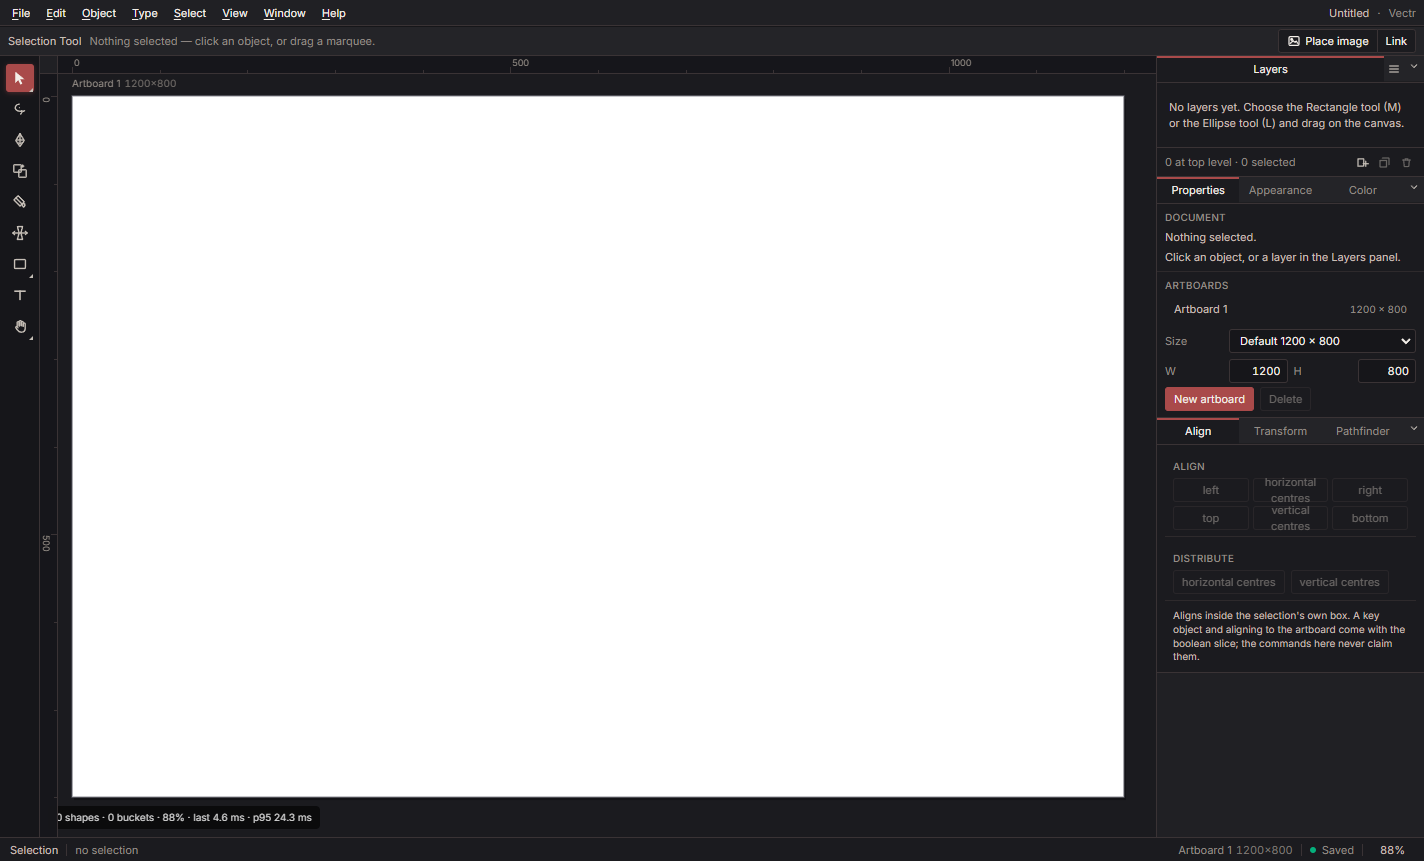
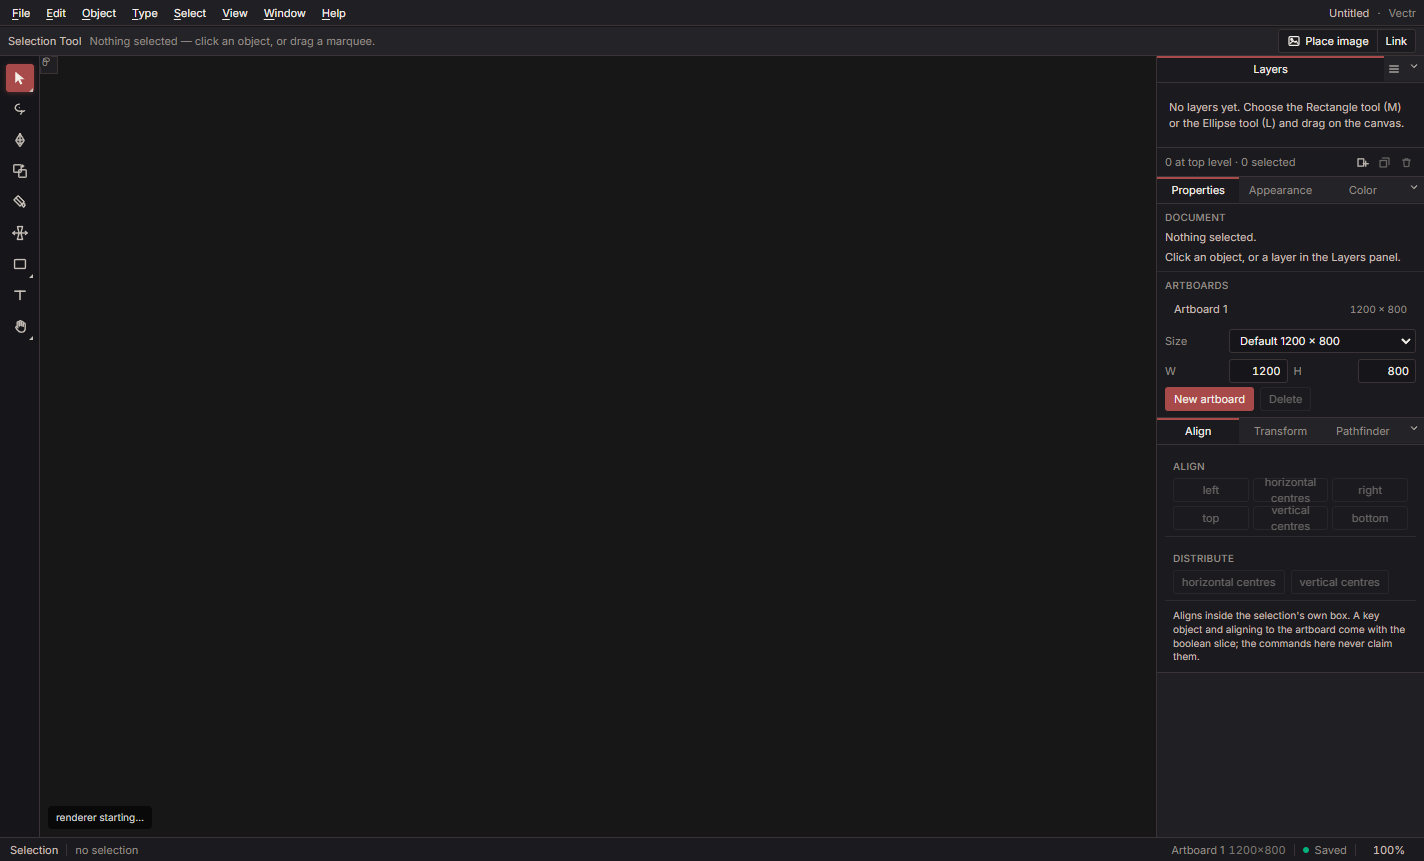
release: close Phase 6 (Type) with 0.6.0
Phase 6 ships point text, area text, text on a path, threaded text with live reflow, vertical type,
Create Outlines with our own TrueType reader, and missing-font resolution; the format moved from v7
to v12. Character/paragraph style presets are the stated exception: per-range styles need a rich-text
run model, and text styling stays per object.

392 tests and 170 packaged steps; verify:artifact now asserts the Phase 6 contract (53 checks) and
the receipt is committed. Release notes, site version, feature list, PLAN, catalog, PROGRESS, and the
screenshot are updated for the phase close.

diff --git a/site/index.html b/site/index.html
@@ -135,7 +135,7 @@
   <div class="wrap split">
     <div>
       <h2>Get started.</h2>
-      <p><strong>Windows:</strong> download <a href="https://github.com/lleoparden/vectr/releases">Vectr 0.5.8 Setup</a> - a per-user installer, one per phase. It is unsigned, so SmartScreen warns once and the release notes explain it.</p>
+      <p><strong>Windows:</strong> download <a href="https://github.com/lleoparden/vectr/releases">Vectr 0.6.0 Setup</a> - a per-user installer, one per phase. It is unsigned, so SmartScreen warns once and the release notes explain it.</p>
 <p>Or build it from source: Node.js 22+ and npm. Windows is the reference platform today.</p>
       <p>If <code>npm run smoke</code> fails with <code>reading 'whenReady'</code>, your shell has <code>ELECTRON_RUN_AS_NODE=1</code> set. Clear it for the run. That is not a Vectr bug.</p>
     </div>
@@ -155,7 +155,7 @@ npm run smoke      # 162 packaged steps, six reports</code></pre>
   <div class="wrap">
     <p><strong>Contributing.</strong> Read AGENTS.md first. Every change starts on its own branch and ships with typecheck, the full suite, a build, and packaged evidence. Each pull request states which layer it touches, what it leaves out, and its residual doubt.</p>
     <p>Docs: <a href="https://github.com/lleoparden/vectr/blob/main/CONTRIBUTING.md">CONTRIBUTING</a>, PLAN, PROGRESS, AUDIT, DECISIONS, PARITY_CATALOG, PARITY_ROADMAP, and MASTER_PLAN.</p>
-<p>Vectr alpha 0.5.8 - MIT licensed, not affiliated with Adobe.</p>
+<p>Vectr alpha 0.6.0 - MIT licensed, not affiliated with Adobe.</p>
     <p class="fine">MIT licensed. Illustrator and Adobe are trademarks of Adobe Inc.; Vectr is not affiliated with Adobe. VectorCraft is a separate project used only as behavioural and architectural reference.</p>
   </div>
 </footer>

diff --git a/docs/RELEASES.md b/docs/RELEASES.md
@@ -2,23 +2,29 @@
 
 Windows x64 · per-user install · unsigned, so SmartScreen warns once · macOS arm64/x64 · ad-hoc signed
 
-**Vectr <version>** — the vector editor that reads like Illustrator and writes React. **Missing fonts are now a
-visible workflow** instead of a silent substitution.
+**Vectr <version>** — the vector editor that reads like Illustrator and writes React. **Phase 6 (Type) is closed in
+scope**: point, area, path, threaded, and vertical text, Create Outlines, and missing-font resolution. The format is at
+**v12**.
 
-### What changed
+### What changed in this phase
 
-- **Type ▸ Resolve Missing Fonts…** opens a dialog listing the families the document references but Vectr does not
-  ship, and substitutes them with **Inter** in one undo entry. The menu item is enabled only when something is
-  actually missing, so the control cannot lie.
-- **Detection is shared and tested.** The same walk powers the menu state, the dialog list, and the substitution
-  command; it sees text inside groups, ignores case when comparing family names, and returns unique, sorted families.
-- No document-format change: `fontFamily` already existed, and existing files with missing families now have a way out.
+- **Point text** with in-place editing, alignment that keeps the insertion anchor fixed, and ink-height bounds
+  (ascent + descent + leading), matching Illustrator's measured box rather than `lines × leading`.
+- **Area text**: drag with the Type tool to author a frame; text wraps at word boundaries, long words break by
+  character, overflow is clipped, and content/style edits keep the frame.
+- **Text on a path**: click a filled path with the Type tool; glyphs are centred along it and rotate to the tangent.
+- **Threaded text with live reflow**: Thread Text links area frames into a chain; editing the head's story
+  redistributes every frame in one undo, and Type ▸ Reflow Thread recomputes on demand.
+- **Vertical type**: an upright stack, one column per line, with area/path frames keeping their box.
+- **Create Outlines** (Ctrl+Shift+O) via **our own TrueType reader** — cmap, loca/glyf, hmtx, quadratic-to-cubic —
+  because CanvasKit exposes glyph metrics but not outlines.
+- **Resolve Missing Fonts**: lists absent families and substitutes them with Inter in one undo.
+- **Format evolution v8 → v12**, each field optional so older documents open unchanged.
 
 ### What is in this build
 
-Everything from **0.5.7** — paths, booleans, compound paths, Simplify/Outline/Offset, live shapes, width profiles,
-point/area/path/threaded/vertical text, Create Outlines, and live thread reflow — plus transforms, gradients, blend
-modes, artboards, layers, images, autosave, and crash recovery.
+Everything from **0.5.x** — paths, booleans, compound paths, Simplify/Outline/Offset, live shapes, width profiles —
+plus transforms, gradients, blend modes, artboards, layers, images, autosave, and crash recovery.
 
 <details>
 <summary><strong>Install, requirements, and other ways to run it</strong></summary>
@@ -61,11 +67,15 @@ npm run smoke      # 170 packaged steps, six reports
 <details>
 <summary><strong>What this build deliberately does not do</strong></summary>
 
-- **Inter is the only face**, so substitution always lands on Inter with no per-family choice; the dialog lists
-  families rather than per-object counts and does not open automatically when a file is loaded.
-- Character/paragraph style presets are not built yet; text styling remains per object.
-- Threading is live but has no unlink UI, and hidden overflow past the last frame is not marked.
-- Create Outlines uses the default variation master and ignores kerning; vertical/path text is not outlined.
+- **Character/paragraph style presets are the Phase 6 exception.** Per-range character styles need a rich-text run
+  model (runs in the document, run-aware rendering and editing, run-scoped commands); text styling remains per object.
+- **Tab stops are documented-only**: Illustrator 27.3.1's scripting API cannot set them, recorded in the oracle
+  fixtures rather than guessed.
+- Vertical Latin is an **upright stack**, not rotated; no vertical punctuation, tate-chu-yoko, or bidirectional layout.
+- Threading is live but has **no unlink UI**; a continuation's edit stays local until the next reflow, and hidden
+  overflow past the last frame is not marked.
+- Create Outlines uses the **default variation master**, ignores kerning, and only outlines horizontal text.
+- Point-text insertion is still the box's top-left, not Illustrator's baseline.
 - Phase 5 limits stand: Live Paint paints regions not edges, Divide faces are flattened, width profiles are per
   anchor, and a compound's own stroke is not outlined.
 
@@ -75,9 +85,9 @@ npm run smoke      # 170 packaged steps, six reports
 <summary><strong>Evidence</strong></summary>
 
 - Typecheck, layer check, **392 unit tests**, production build, and **170 packaged steps** across six reports.
-- New packaged step creates a Comic Sans MS text object, opens the dialog, asserts the family is listed, applies the
-  substitution, checks the family became Inter, and undoes.
-- Unit tests pin unique/sorted/case-insensitive detection, text inside groups, an all-Inter document reporting
-  nothing, and a caller-supplied available list.
+- The packaged run covers every Phase 6 path: area-frame creation, path-text creation, threading plus reflow,
+  vertical toggle, Create Outlines, and the missing-fonts dialog.
+- `npm run verify:artifact` asserts the Phase 6 contract now (command ids and fields) against the staged build, and
+  writes a receipt with the ASAR and bundle hashes.
 
 </details>

diff --git a/docs/PARITY_CATALOG.md b/docs/PARITY_CATALOG.md
@@ -66,7 +66,7 @@ Platform coverage begins `Windows planned / macOS planned / Linux planned`.
 | APP-01 | Appearance stacks, opacity, blend modes, and transparency | building | partial | **Opacity (issue #69) and a deliberately limited blend-mode set (issue #71) ship.** Opacity is per object (0–1) and composites through groups; six blend modes — normal, multiply, screen, overlay, darken, lighten — are stored as an optional style field, validated against that list, carried in the scene, and applied to the fill paint through Skia's blend mode. Absent means normal, so old files composite exactly as before. **All sixteen standard blend modes ship** (normal, multiply, screen, overlay, darken, lighten, colour dodge/burn, hard/soft light, difference, exclusion, hue, saturation, colour, luminosity), applied to fills **and strokes**. Still planned: appearance *stacks* (multiple fills/strokes per object), isolation blend groups, and knockout/transparency-group controls. |
 | APP-02 | Graphic styles, masks, clipping masks, and opacity masks | building | partial | **Phase 2.8 (issue #71) ships vector clipping masks.** Object ▸ Make Clipping Mask groups the selection (if needed) and clips the group to its topmost object, which is Illustrator's rule; the clip is a group-owned `clipChildId` naming one direct child, so the relationship round-trips in the file. The clip object keeps its style and transform and is not drawn on its own; Release Clipping Mask clears the relationship. The renderer clips with a real Skia path, curves are sampled (ellipse 64 points, rounded corners 4 per corner), and hit testing follows the clip so a clipped-away point selects nothing. Raster masks on images shipped earlier and are unchanged. Still planned: compound paths, clipping by a stroke outline, and opacity/blend work on `APP-01`. |
 | TYPE-01 | Point text, area text, text on a path, and threaded text | building | partial | **Missing-font substitution ships**: Resolve Missing Fonts lists families absent from the shipped face and substitutes them with Inter in one undo. **Create Outlines ships** (Type menu): selected text becomes a compound path of TrueType glyph outlines parsed from the bundled face; the outline is geometry, so text editability ends there. **Area text ships** (format v8): `textType: 'area'` keeps an authored frame, wraps at word boundaries, clips past the height, and is created by dragging the Type tool. **Text on a path ships** (format v9): clicking a filled path with the Type tool centres the text along it, glyphs rotate to the tangent, and the box is the path bounds; the geometry is copied into the node, not linked. **Threading reflows live** (format v12): Thread Text records the whole chain, editing a head edits the story and redistributes every frame in one undo, and Type > Reflow Thread recomputes on demand. Remaining: unlink UI, local continuation edits overriding their slice until reflow, and start-offset/side controls. Issue #16 ships **point text**: a `TextNode` with content, a stored measured box, font family, size, alignment, and leading; `setText`/`setTextStyle` commands with exact inverses and validation (size, leading, alignment, family name, and a 100 000-character content cap); in-place editing with the Type tool (T) and by double-clicking; the Type menu (Horizontal Align Left/Center/Right, Increase/Decrease Size) with Illustrator's chords; a font-size field in Properties; and defined missing-font behavior — the bundled Inter face is drawn and the substitution is reported on the console, in the canvas notice, in the Properties panel, and by a packaged smoke step. Still planned: area text, text on a path, threaded text, vertical text, character and paragraph styles, and multilingual layout (Phase 3). |
-| TYPE-02 | Character, paragraph, OpenType, styles, tabs, and variable fonts | planned | partial | Style inheritance and fallback/missing-font reporting are explicit. |
+| TYPE-02 | Character, paragraph, OpenType, styles, tabs, and variable fonts | planned | partial | **Missing-font substitution ships** (Resolve Missing Fonts -> Inter, one undo). Character/paragraph **style presets are deferred**: per-range styles need a rich-text run model. Tabs are documented-only because the scripting API cannot set them in Illustrator 27.3.1. |
 | TYPE-03 | Touch Type, vertical text, bidirectional text, and multilingual layout | building | partial | **Vertical text ships as an upright stack** (format v11): Type > Vertical Type toggles point text, columns per line, area/path frames keep their box. Latin glyphs are not rotated, and vertical punctuation/tate-chu-yoko/bidi layout remain. | Individual glyph transforms and supported script direction survive reopen. |
 | IMAGE-01 | Place, embed, link, relink, crop, and image masks | building | raster fallback | PNG/JPEG placement supports Embed and **Place Linked**, with content-addressed metadata and a desktop-selected external source for a link. Missing or changed links leave a visible placeholder and the project open for **Relink…**. Properties provides non-destructive normalized crop bounds and Set/Replace/Remove raster alpha mask; each edit is an exact-inverse command and crop/mask metadata persists through v3 files. The renderer decodes once per asset and reports unavailable content. Not built: clipping masks, image tracing, generic mask editing, CMYK/color management, or network links. |
 | IMAGE-02 | Raster-to-vector tracing and image color management | deferred | raster fallback | Deferred until after core/editor compiler milestones. |

diff --git a/docs/PLAN.md b/docs/PLAN.md
@@ -33,7 +33,7 @@ no Bézier path node yet, so the pen, anchors, Pathfinder, width profiles, and c
 Every slice owes the usual evidence (typecheck, full suite, build, packaged steps) plus a fixture for the
 geometry it introduces. Booleans owe property tests on area and winding, not eyeballing.
 
-## Phase 6 - Type (in progress)
+## Phase 6 - Type (complete in scope, 0.6.0)
 
 Epic scope in [MASTER_PLAN.md](MASTER_PLAN.md): point and area text, text on a path, threading, character and
 paragraph styles, tabs, vertical type, missing-font substitution, and text-to-outline. Evidence rules and the
@@ -45,8 +45,11 @@ Illustrator oracle are in [PHASE6_REA_CHECKLIST.md](PHASE6_REA_CHECKLIST.md).
 | 6.2 Area text | **Ships**: authored frame, word wrapping, clipped overflow, drag-created (format v8) |
 | 6.3 Text on a path | **Ships**: Type-click a path, centred glyph layout with tangents, fixed bounds (format v9); copied geometry, no start offset |
 | 6.4 Threading | **Live chain**: Thread Text links every frame, head edits reflow the chain, Reflow Thread on demand (format v12); unlink UI remains |
-| 6.5 Styles, 6.6 Tabs | Not started (tabs API gap recorded) |
+| 6.5 Styles | **Deferred exception**: per-range character/paragraph styles need a rich-text run model |
+| 6.6 Tabs | Documented-only: Illustrator's scripting API cannot set tab stops (recorded fixture) |
 | 6.7 Vertical type | **Ships as an upright stack** (format v11); rotated glyphs and vertical punctuation remain |
+| 6.9 Outlining | **Ships**: Create Outlines via a TrueType reader (default master, no kerning); horizontal text only |
+| 6.8 Missing fonts | **Ships**: detection plus a Resolve Missing Fonts dialog that substitutes with Inter in one undo |
 | 6.8 Missing fonts | **Ships**: detection plus a Resolve Missing Fonts dialog that substitutes with Inter in one undo |
 | 6.9 Outlining | **Ships**: Create Outlines via a TrueType reader (default master, no kerning); horizontal text only |
 

diff --git a/docs/PROGRESS.md b/docs/PROGRESS.md
@@ -1,6 +1,21 @@
 # Progress
 
 
+## Phase 6 closed with 0.6.0 (2026-11-17)
+
+- **Shipped in Phase 6:** point text (alignment keeps the insertion anchor; ink-height bounds), area text (authored
+  frame, word wrapping, clipped overflow), text on a path (centred glyphs with tangent rotation), threaded text with
+  **live reflow**, vertical type (upright stack), Create Outlines (own TrueType reader), and the Resolve Missing
+  Fonts workflow. Format moved from v7 to **v12** across those slices, each field optional so older files open.
+- **Declared exception:** **character/paragraph style presets are not built.** Per-range character styles need a
+  rich-text run model (runs in the document, run-aware rendering and editing, run-scoped commands), which is a
+  phase-sized slice of its own rather than a preset table. Text styling stays per object, and the catalog says so.
+- **Also outside this phase:** tab stops (Illustrator's scripting API cannot set them in 27.3.1 - recorded in the
+  oracle fixtures), vertical punctuation/tate-chu-yoko/bidi, and editing overlays that follow path text or vertical
+  carets.
+- **Evidence at close:** 392 unit tests, **170 packaged steps**, and a verify:artifact contract that now includes
+  every Phase 6 command id and field, so 0.6.0's receipt proves the phase is actually in the installer.
+
 ## Phase 6.8: the missing-font substitute workflow (2026-11-17)
 
 - **Detection is real now:** `src/doc/missingFonts.ts` walks the tree (groups included), compares text families

diff --git a/README.md b/README.md
@@ -15,7 +15,7 @@ A desktop-first vector design tool with Illustrator's conventions and its own co
 [![Tailwind](https://img.shields.io/badge/Tailwind-4.3-38BDF8?logo=tailwindcss&logoColor=white)](https://tailwindcss.com/)
 [![License](https://img.shields.io/badge/license-MIT-blue)](./LICENSE)
 [![Site](https://img.shields.io/badge/site-lleoparden.github.io%2Fvectr-A94A4A)](https://lleoparden.github.io/vectr/)
-[![Release](https://img.shields.io/badge/release-v0.5.8-orange)](https://github.com/lleoparden/vectr/releases/tag/v0.5.1)
+[![Release](https://img.shields.io/badge/release-v0.6.0-orange)](https://github.com/lleoparden/vectr/releases/tag/v0.5.1)
 
 </div>
 
